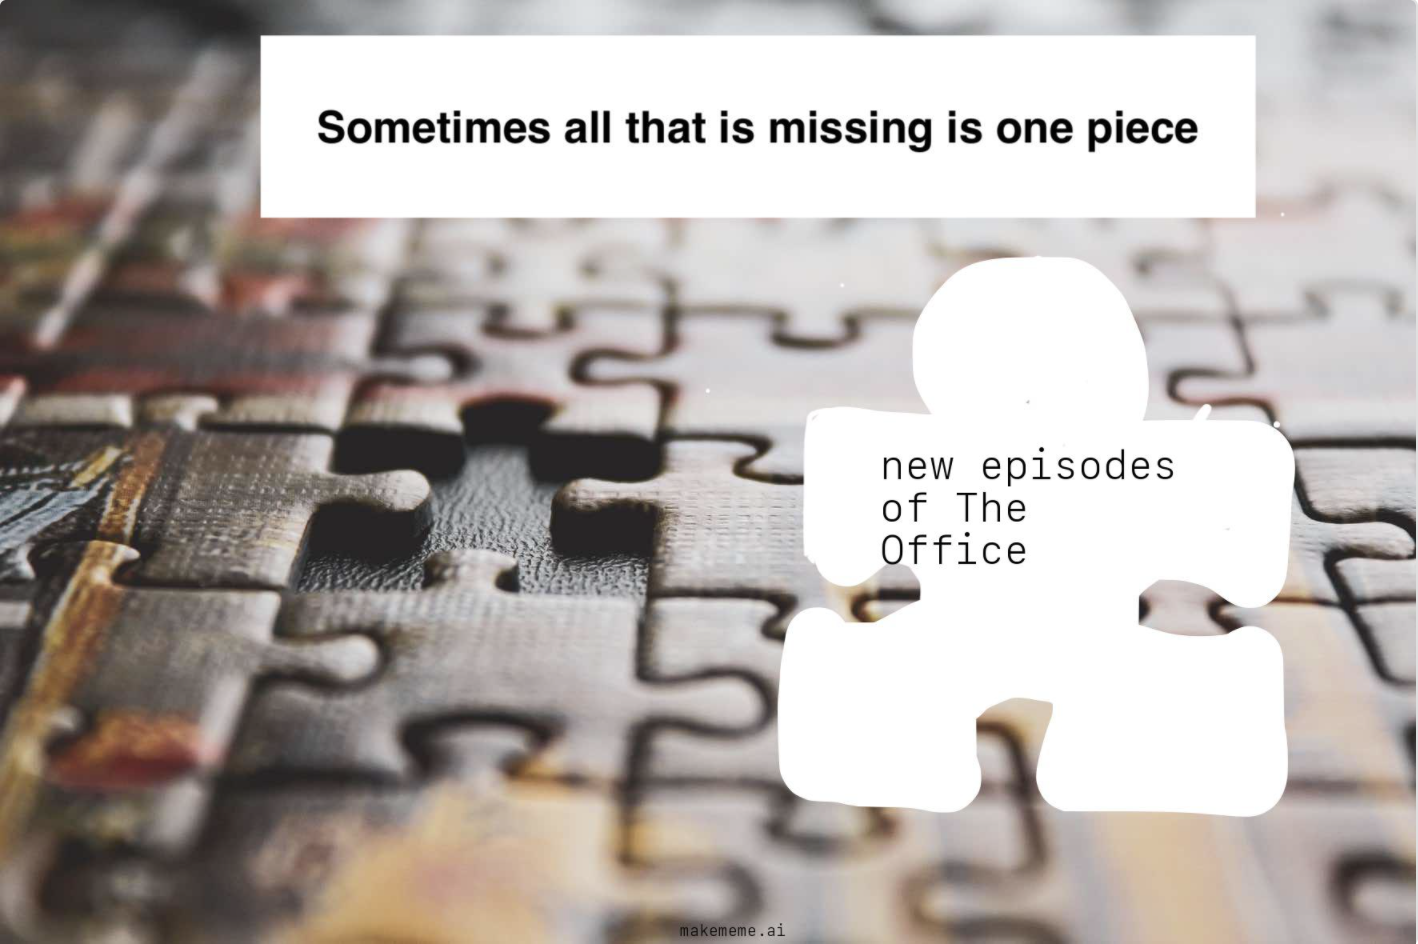
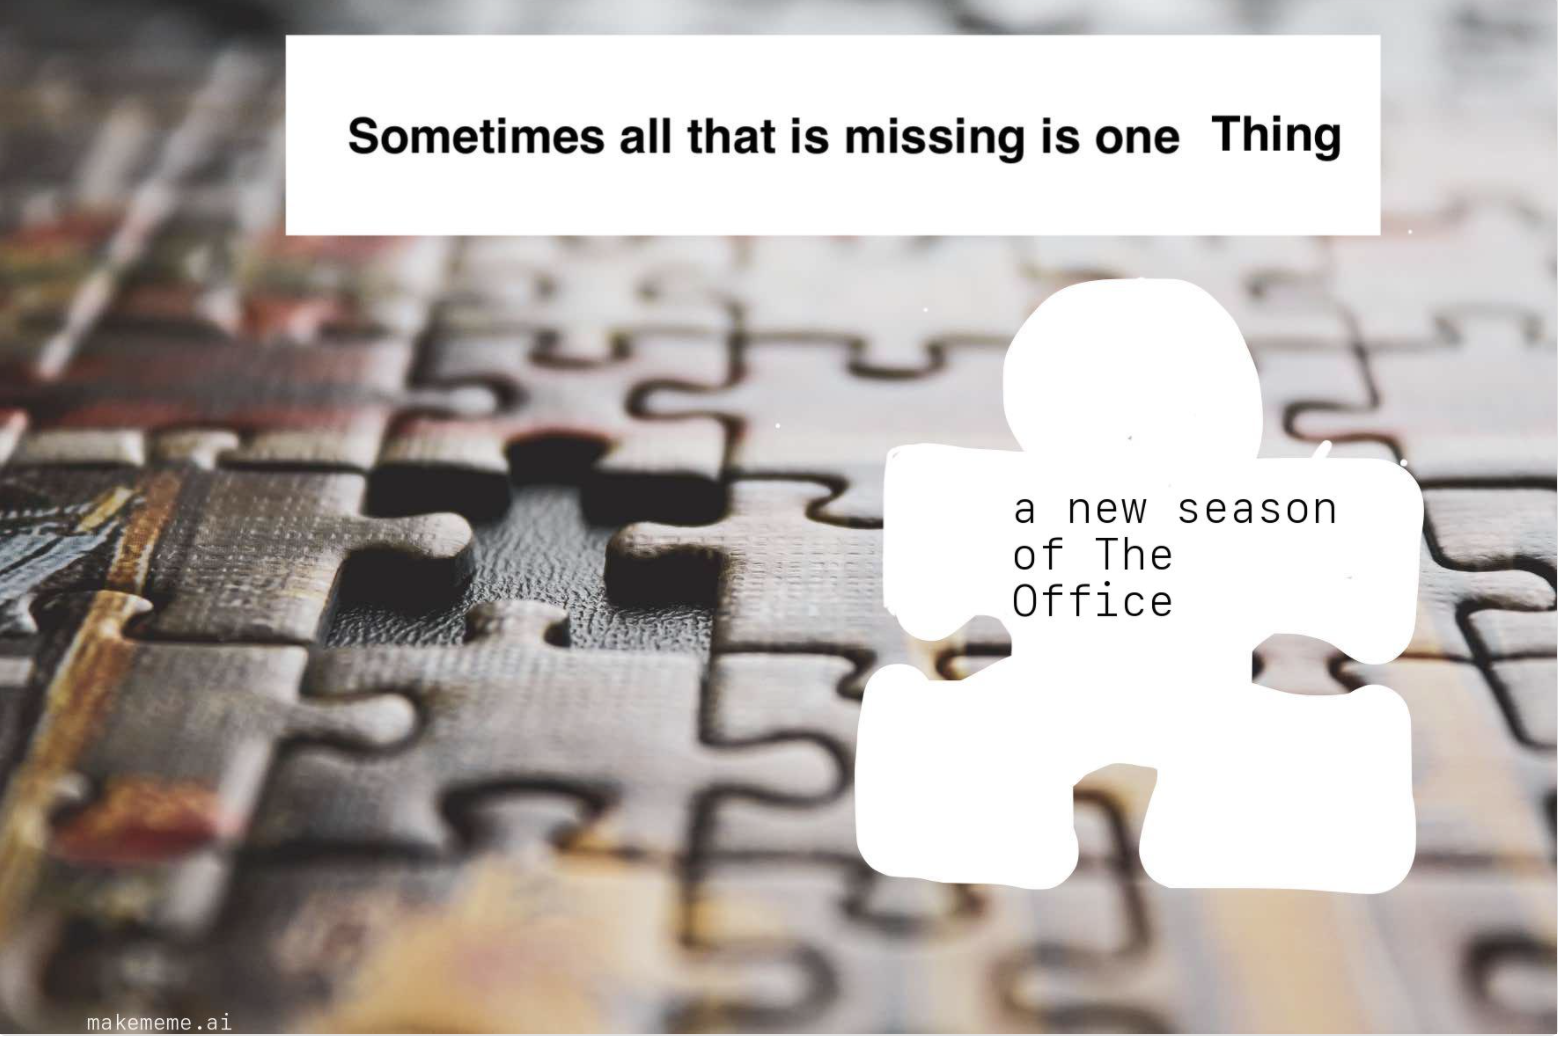
Misc meme improvements

diff --git a/makememe/generator/prompts/types/missing_something.py b/makememe/generator/prompts/types/missing_something.py
@@ -5,7 +5,7 @@ from makememe.generator.design.image_manager import Image_Manager
 
 class Missing_Something(Prompt):
     name = "Missing_Something"
-    description = "missing something"
+    description = "something is missing and I wish it was still here"
 
     def __init__(self):
         self.instruction = '''
@@ -13,8 +13,8 @@ class Missing_Something(Prompt):
 Message: I miss going for long by the beach
 Meme:{"missing": "long runs by the beach"}
 ###
-Message: I wish they didn't discontinue the show The Office
-Meme:{"missing": "new episodes of The Office"}
+Message: I wish there was a new season of The Office
+Meme:{"missing": "a new season of The Office"}
 ###
 Message: I love the smell of a new car
 Meme:{"missing": "The smell of a brand new car"}
@@ -23,7 +23,7 @@ Meme:{"missing": "The smell of a brand new car"}
     def create(self, meme_text):
         with Image.open(f"makememe/static/meme_pics/{self.name.lower()}.jpg").convert("RGBA") as base:
 
-            overlay_image = Image_Manager.add_text(base=base, text=meme_text['missing'], position=(5000, 550), font_size=50, wrapped_width=12)
+            overlay_image = Image_Manager.add_text(base=base, text=meme_text['missing'], position=(1150, 550), font_size=50, wrapped_width=12)
             watermark = Image_Manager.add_text(base=base, text='makememe.ai', position=(100, 1150), text_color="white", font_size=25)
 
             base = Image.alpha_composite(base, watermark)

diff --git a/makememe/make.py b/makememe/make.py
@@ -41,7 +41,7 @@ def make(description, user_id):
             print(f'user_id: ', user_id)
             print('________start_________')
             try:
-                documents= ["sad", "indifferent", "waiting", "they don't know", "pompous", "is better", "poor fix", "no responsibility", "ineffective solution", "change my mind", "accurate depiction", "equal", "distracting", "three levels increasing", "stay away from", "ruin", "scary", "strong preference", "missing something", "when not good"]
+                documents= ["sad", "indifferent", "waiting", "they don't know", "pompous", "is better", "poor fix", "no responsibility", "ineffective solution", "change my mind", "accurate depiction", "equal", "distracting", "three levels increasing", "stay away from", "ruin", "scary", "strong preference", "something is missing and I wish it was still here", "when not good"]
                 
                 testing = False
                 if testing:
